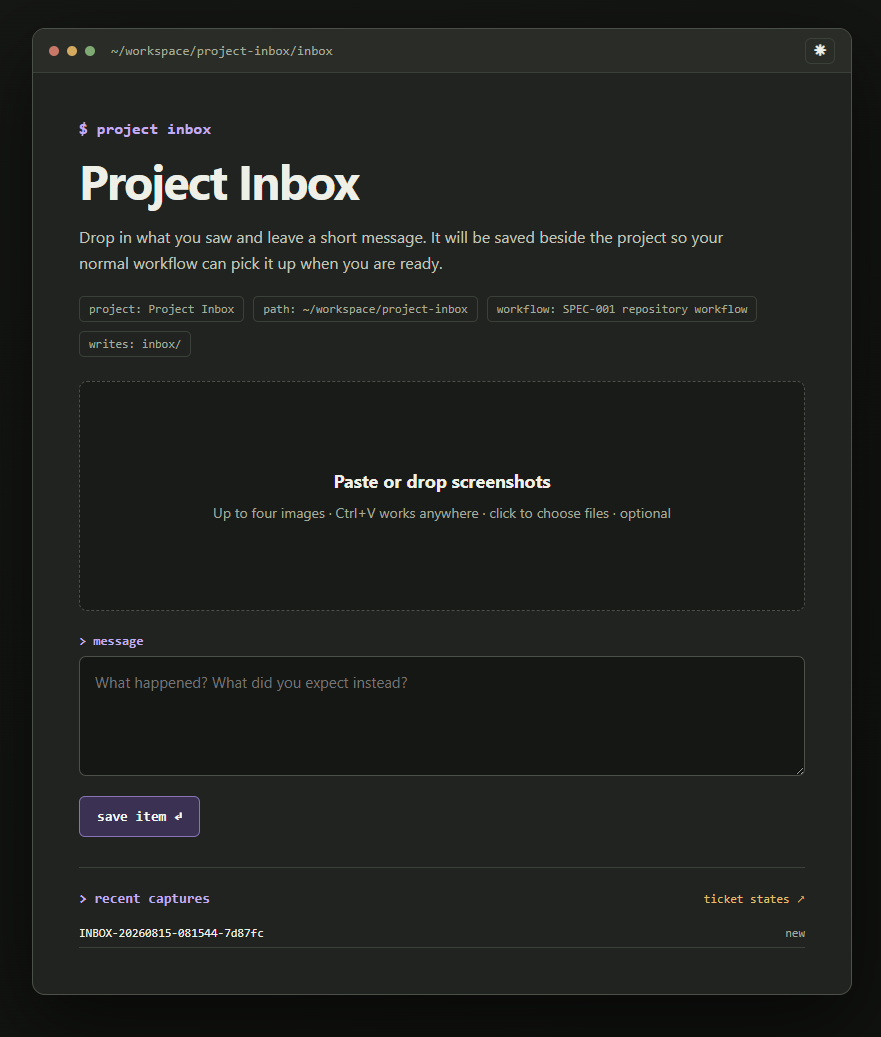
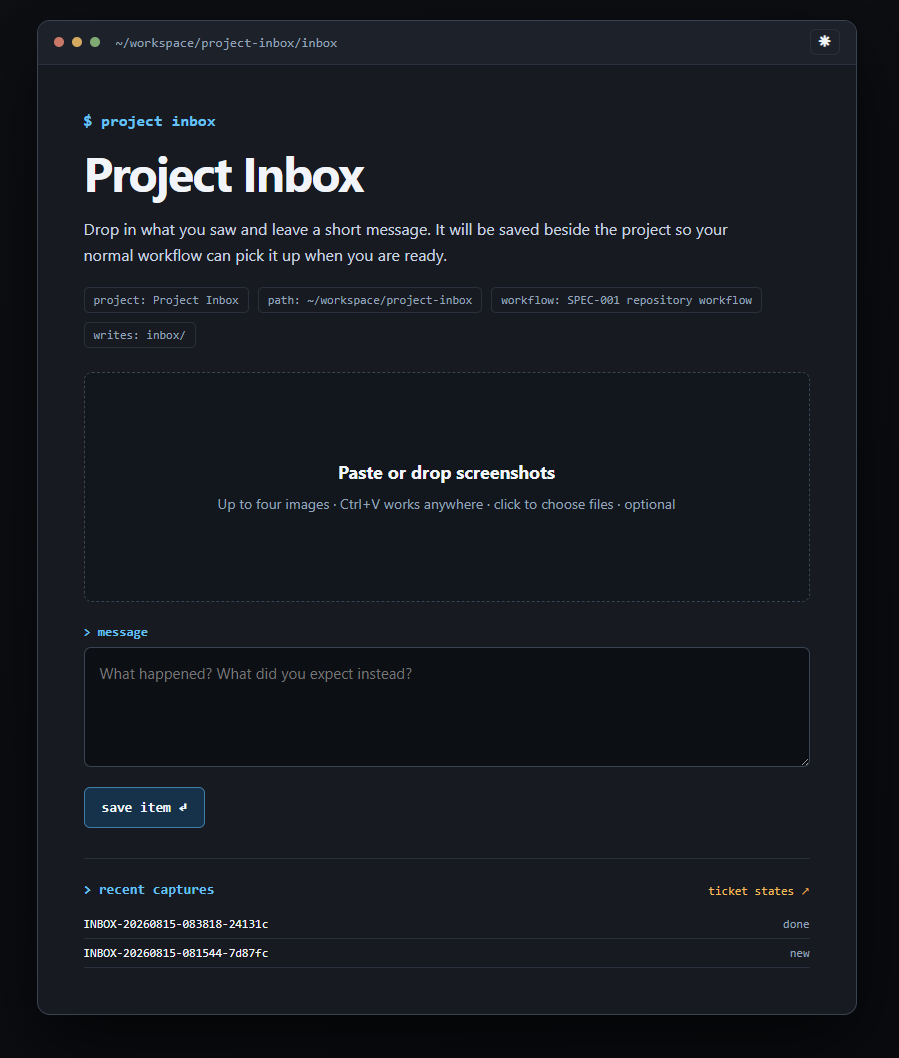
feat: refresh inbox appearance and recent links
Resolve FR-007, FR-008, and CR-014 with the neutral-blue palette, OS-aware initial theme, read-only capture links, copy-ID controls, and updated README screenshot.

Dependency-Audit: sec-helper

diff --git a/README.md b/README.md
@@ -11,7 +11,7 @@ Paste, drop, or select up to four screenshots, add a short note, and Project Inb
 - Runs a zero-dependency browser app on `127.0.0.1`.
 - Saves each message as an `INBOX-*.md` file with optional PNG, JPEG, WebP, or GIF attachments.
 - Supports up to four removable screenshot previews in a horizontal strip.
-- Shows recent captures and their `new`, `triaged`, or `done` state.
+- Shows recent captures and their `new`, `triaged`, or `done` state, with read-only Markdown links and copyable IDs.
 - Remembers a light or dark theme in the browser.
 - Offers a small project accent palette so concurrent inboxes are easier to distinguish.
 - Fits into an existing project workflow instead of inventing a new one.
@@ -144,7 +144,7 @@ Add `.project-inbox.json` to the target project's root when the defaults are not
 }
 ```
 
-All fields are optional. The generic workflow and green accent stay the defaults. Available accents are `green`, `blue`, `violet`, `amber`, and `rose`; each has tested light and dark variants. Project name and path remain the primary safeguards against submitting to the wrong inbox.
+All fields are optional. The generic workflow and blue accent stay the defaults. Available accents are `blue`, `green`, `violet`, `amber`, and `rose`; each has tested light and dark variants. Shared surfaces are neutral graphite in dark mode and cool white in light mode. The initial theme follows the operating-system preference, while a manual choice remains stored in the browser. Project name and path remain the primary safeguards against submitting to the wrong inbox.
 
 Projects with an established specification and ticket lifecycle can opt into the portable `spec-driven` profile. It can describe ticket prefixes, repository instructions, specifications, ticket register, milestones, changelog, and a focused test command. Project Inbox only records and displays that guidance; it never executes configured commands or edits workflow documents automatically.
 

diff --git a/docs/tickets.md b/docs/tickets.md
@@ -28,3 +28,6 @@ None.
 - `CR-011` — Reduced README installation guidance to Codex-assisted, global, workspace-local, and direct-server paths by removing symlink, migration, and invocation walkthroughs. Verified with focused README regression coverage and the test suite.
 - `CR-012` — Reduced the copyable `$skill-installer` prompt to the repository source only, leaving verification to the installer and release CI. Verified with focused README regression coverage and the test suite.
 - `CR-013` — Clarified post-install activation: use the newly installed skill in a following turn, and restart Codex only when automatic skill discovery does not expose it. Verified with focused README regression coverage and the test suite.
+- `FR-007` — Replaced olive-green surfaces with neutral graphite and white surfaces, made blue the generic accent while retaining all existing accents, and followed the operating-system theme until the user saves a preference. Verified with configuration and rendering regressions, the focused test suite, and a live browser-serving smoke test.
+- `FR-008` — Added read-only Markdown links and copy-ID controls to recent captures without adding editing or workflow mutation. Verified with rendering and HTTP regressions, the focused test suite, and a live data smoke test.
+- `CR-014` — Replaced the README workflow screenshot with the approved neutral-blue capture from `INBOX-20260815-101129-61de58`. Verified with byte-identical SHA-256 comparison and the focused test suite.

diff --git a/references/configuration.md b/references/configuration.md
@@ -18,7 +18,7 @@ Place `.project-inbox.json` in the project root. All fields are optional.
 
 - `projectName` appears in the capture page and saved item.
 - `inboxDir` must be a relative path inside the project root.
-- `appearance.accent` optionally identifies the project with a tested `green`, `blue`, `violet`, `amber`, or `rose` palette. It affects both light and dark themes; `green` is the default.
+- `appearance.accent` optionally identifies the project with a tested `blue`, `green`, `violet`, `amber`, or `rose` palette. It affects both light and dark themes; `blue` is the default.
 - `workflow.label` names the workflow that owns new items.
 - `workflow.instructions` is stored as processing guidance. It supplements but never overrides repository instructions or the current user's request.
 

diff --git a/CHANGELOG.md b/CHANGELOG.md
@@ -2,6 +2,9 @@
 
 ## Unreleased
 
+- Replaced olive-tinted surfaces with a neutral technical palette, made blue the generic accent, and followed the operating-system theme until a browser preference is saved.
+- Added read-only Markdown links and copy-ID controls to recent captures.
+- Replaced the README workflow screenshot with the approved neutral-blue capture.
 - Clarified that a newly installed skill is used in a following turn, with a Codex restart only when automatic discovery does not expose it.
 - Reduced the Codex installer prompt to the skill source, avoiding consumer-side repository verification.
 - Streamlined skill setup into copyable Codex-assisted, global, workspace-local, and direct-server paths with top-level links.
